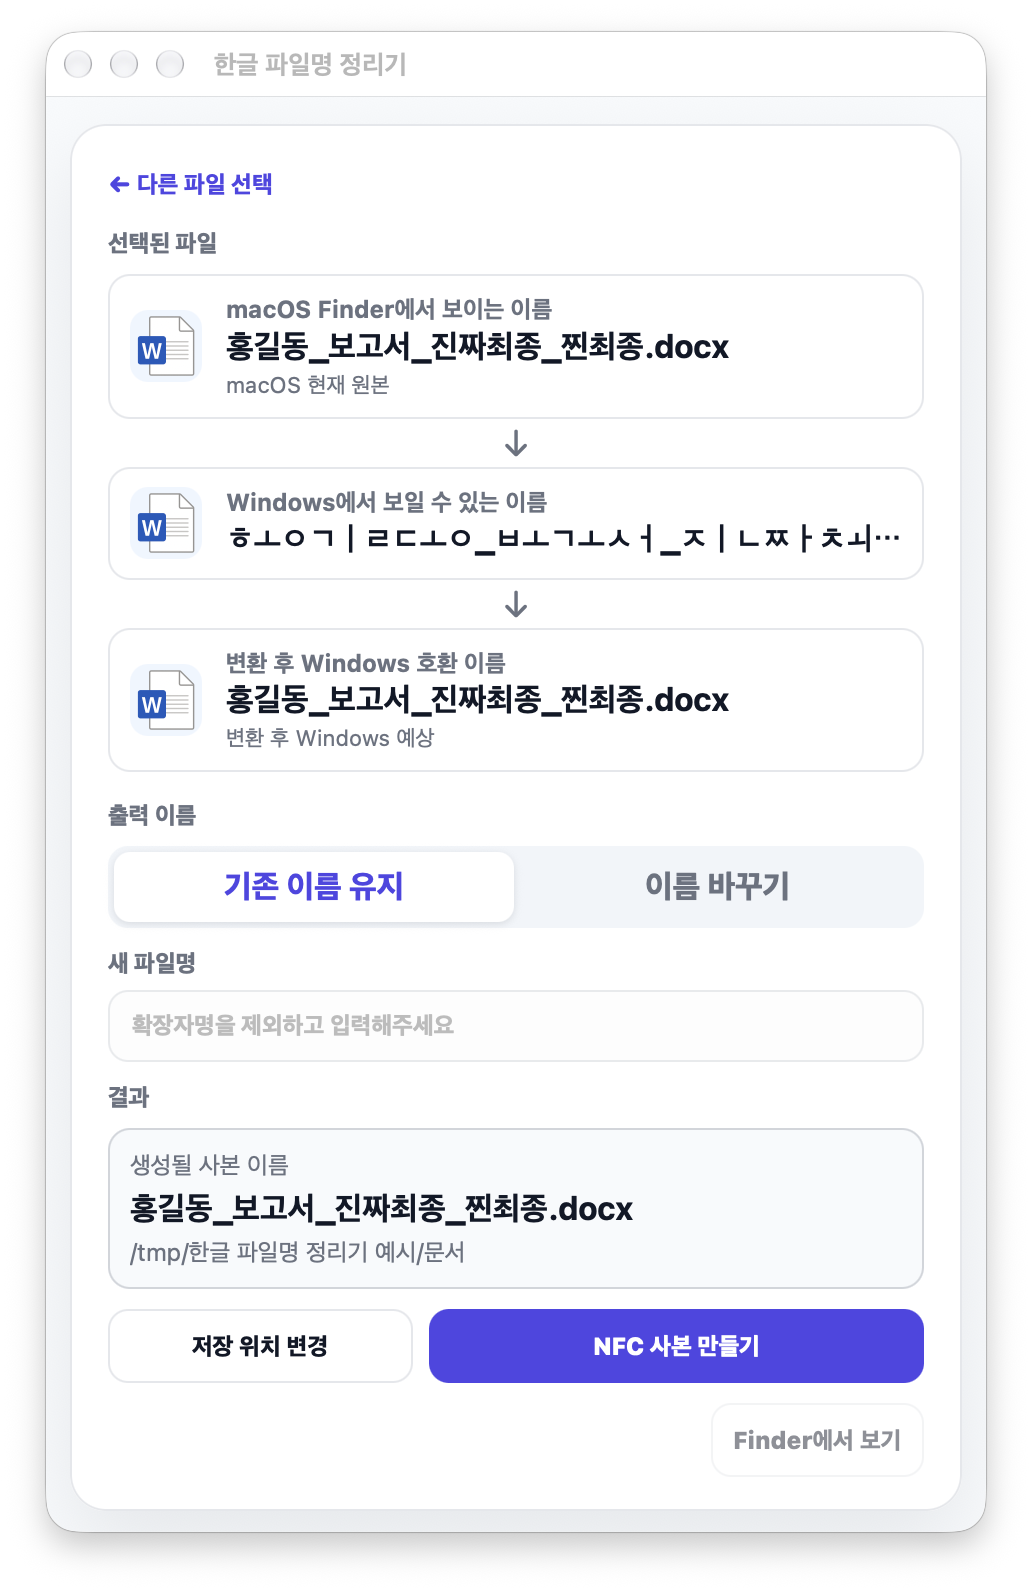
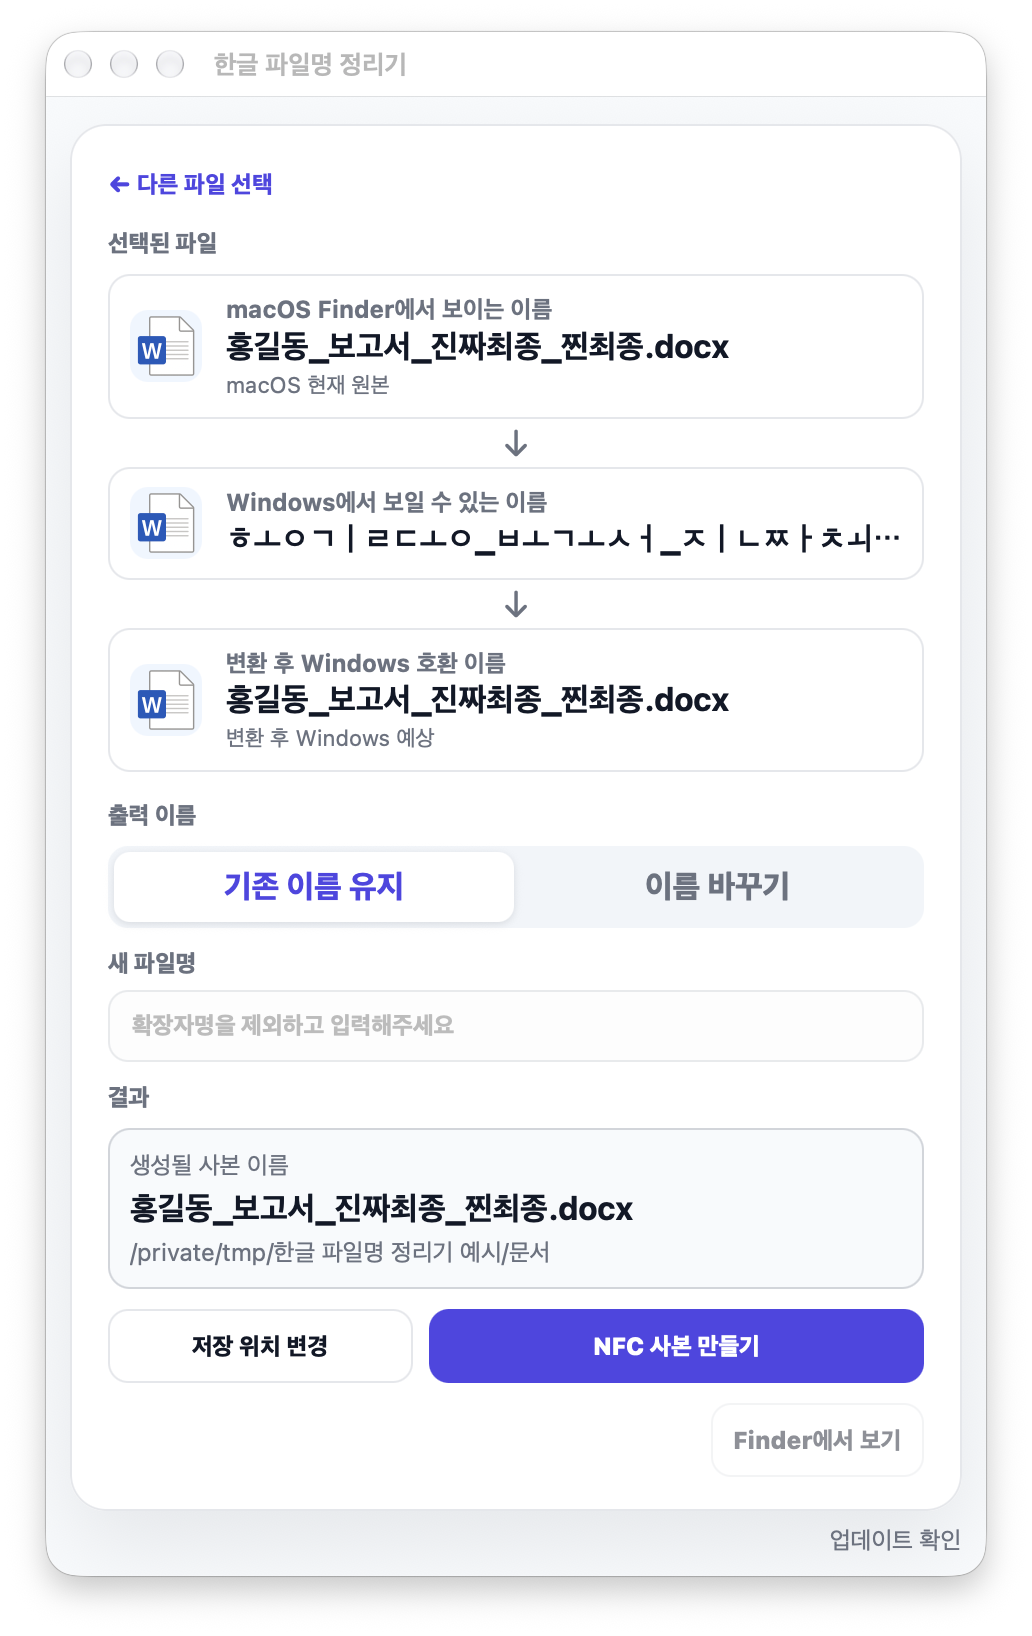
docs: retake the README screenshots for 2.0.2 and add a dark mode screenshot
- The five README images captured again from the released app (with the 업데이트 확인 link under the card).
- New images/file-select-dark.png: the first screen in dark mode (2.1.0), linked from both READMEs.

diff --git a/README.md b/README.md
@@ -116,7 +116,11 @@ Gmail로 한글 파일명을 유지해서 보내야 한다면 **Chrome 대신 Sa
 </p>
 
 창 크기는 화면 내용에 맞춰집니다. 파일을 선택하면 그만큼 창이 길어지고, 폭만 직접 조절할 수 있습니다.<br>
-화면은 macOS의 라이트/다크 모드를 따릅니다(2.1.0부터). 이 문서의 스크린샷은 라이트 모드입니다.
+화면은 macOS의 라이트/다크 모드를 따릅니다(2.1.0부터). 아래는 같은 첫 화면의 다크 모드이고, 이 문서의 나머지 스크린샷은 라이트 모드입니다.
+
+<p align="left">
+  <img src="images/file-select-dark.png" alt="다크 모드의 파일 선택 화면" width="620" />
+</p>
 
 ### 이름 선택 - 기존 이름을 유지하거나 새 이름을 입력합니다.
 

diff --git a/README.en.md b/README.en.md
@@ -118,7 +118,11 @@ If you need to keep Korean filenames in Gmail, attach the file from **Safari** i
 </p>
 
 The window fits its content. It gets taller once a file is selected, and only its width can be resized.<br>
-The app follows the system appearance, light or dark (since 2.1.0). The screenshots in this document show light mode.
+The app follows the system appearance, light or dark (since 2.1.0). Below is the same first screen in dark mode; the other screenshots in this document show light mode.
+
+<p align="left">
+  <img src="images/file-select-dark.png" alt="Select file screen in dark mode" width="620" />
+</p>
 
 ### Choose the Output Name
 
